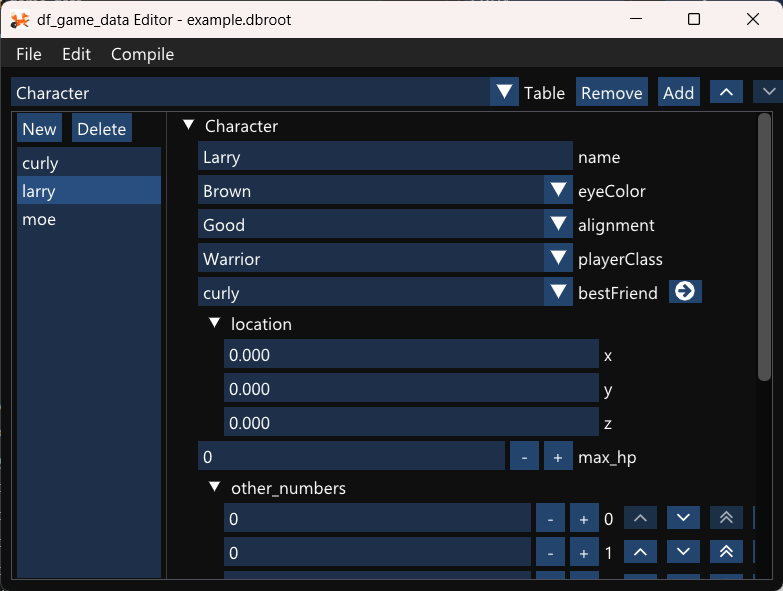
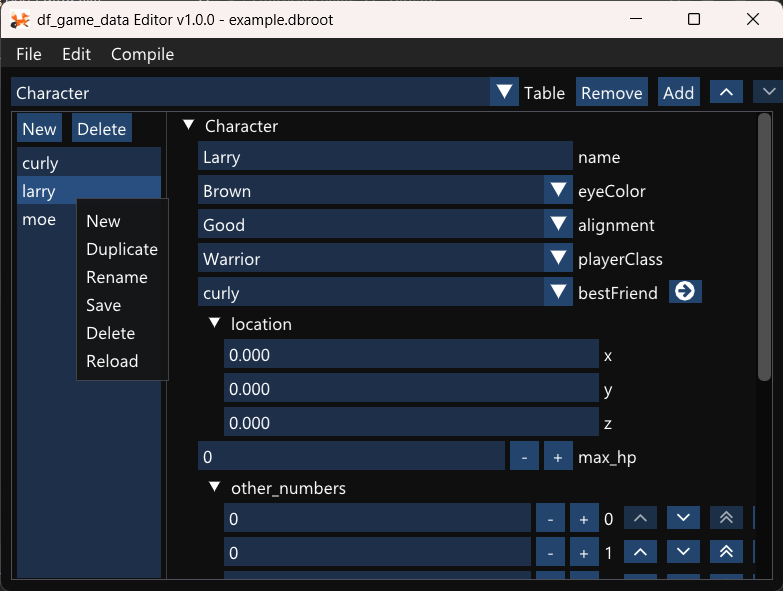
editor md

Changed region(s): [[0.092, 0.335, 0.2146, 0.6701], [0.2146, 0.0, 0.4291, 0.0609], [0.9808, 0.9746, 1.0, 1.0]]

diff --git a/Editor/Editor.cpp b/Editor/Editor.cpp
@@ -418,7 +418,7 @@ static void ShowTableList()
 
             nfdu8filteritem_t filters[] =
             {
-                { "Flatbuffer Schema (*.def)", "def" }
+                { "Schema (*.def)", "def" }
             };
 
             nfdresult_t result = NFD_OpenDialogU8(&outPath, filters, IM_COUNTOF(filters), nullptr);

diff --git a/editor.md b/editor.md
@@ -1,1 +1,49 @@
-TODO: this!
+# Editor
+
+The editor is where you edit data, configure compilation settings, and compile the data.
+
+![The editor](editor.png)
+
+## .dbroot file
+
+When you open a .def file in the editor, it will automatically make a .dbroot file, which has the settings for your database.
+
+This is a json file that contains a list of what tables there are in the dabase, and the compilation options.
+
+Once created, this is the file you want to open in the editor.
+
+## Adding and Removing Tables
+
+The section highlighted below shows where you add a new table to the database, or remove the current table from the database.
+
+The arrow buttons also allow you to move a table up and down in the table list. Table order matters when one table uses types defined by the def files of another table. Type definitions need to come before their use.
+
+![Tables UI](editor_tables.png)
+
+## Adding and Removing Data Entries
+
+The section highlighted below shows where you add data entries, remove them, or select them for editing.  You can right click an entry to bring up the context menu shown.
+
+![Data Entries UI](editor_dataitems.png)
+
+## Editing Data Entries
+
+When a data entry in a table is selected, the right panel lets you edit that data.  An asterisk will show up next to an entry in the entry list when it's modified and different than what is on disk.
+
+The file menu lets you can save an individual data entry or all data entries. You can also use Ctrl+S or Ctrl+A respectively.  Compiling a database also does a "Save All" before compilation.
+
+![Data Record UI](editor_record.png)
+
+## Settings
+
+Under the Edit menu is the settings window. This lets you configure an array of compilation settings. When the data is compiled, all configurations are compiled.
+
+Compilation settings let you choose the name and path of the .h and .bin files, and also the name of the class in the header file.
+
+There is a setting for "Entry Look Up Table". This is on by default, but when it's on, it includes a list of the entry names in each table to allow for an entry look up by name. When this is off, that table isn't there and the generated header does not have the interface to look entries up by name.  Having data entry names in the .bin file can make it easier for people to understand where to modify the .bin file to modify the game.  Without the name table, it's a little more obfuscated.
+
+There is also a setting for "Hot Reloading". This is on by default, but if it's turned off, the hot loading functionality will not be in the generated .h file, which makes entry record objects lighter weight.  The Tick() function still exists for convenience, but it only has "return false" in it. Hot reloading requires the entry look up table to be on, and will turn that setting on if it's off, but hot reloading is on.
+
+The settings window is set up this way so that for instance, you could have a data compilation for "debug" mode which included hot reloading, but the "release" mode had hot reloading and the entry LUT turned off.  In release, the binary data file would be a little smaller, not have human readable strings in it saying what the records were, and the runtime would be more efficient.  You would just change which header you included in debug vs release.  That is one possible configuration of many.
+
+![Data Record UI](editor_settings.png)

diff --git a/def.md b/def.md
@@ -4,7 +4,7 @@ The .def file format will look familiar to C/C++ programmers, with minimal diffe
 
 ### Includes
 
-define files can include other def files using `#include`:
+.def files can include other .def files using `#include`:
 
 ```cpp
 #include "../path/file.def"
@@ -14,7 +14,8 @@ define files can include other def files using `#include`:
 
 You can set a namespace, which will put all types after it into the namespace. This can help
 naming collisions across different files. The next namespace statement will set the new namespace,
-it doesn't nest them. Include files do not inherit the namespace they are included in.
+it doesn't nest them. Include files do not inherit the namespace they are included in, and namespaces
+do not escape the include files they are set in.
 
 ```cpp
 namespace TestData;

diff --git a/README.md b/README.md
@@ -76,7 +76,7 @@ This is what the editor looks like:
 
 ### 3. Compile Database And Use Output
 
-[Compilation Details](output.md)
+[Compilation Details](compiler.md)
 
 Compilation settings can be found under the **Edit** menu, and allows you to configure multiple build targets with different compilation options.
 
